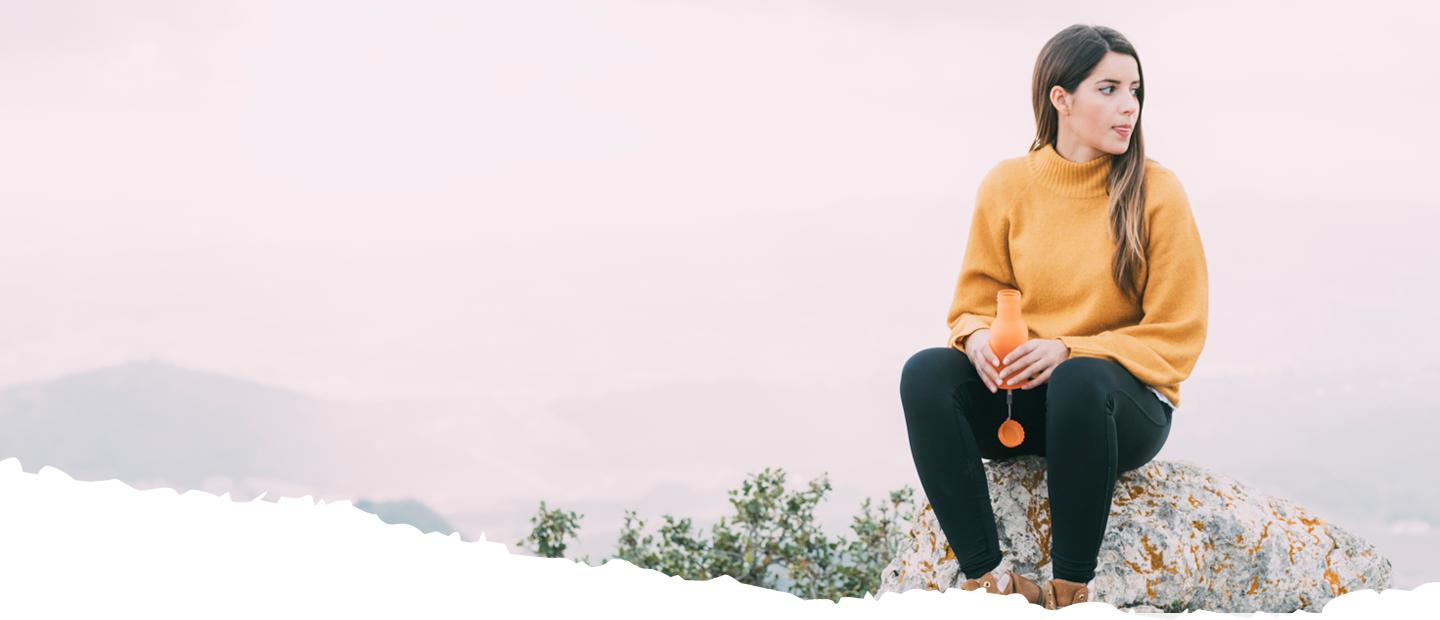
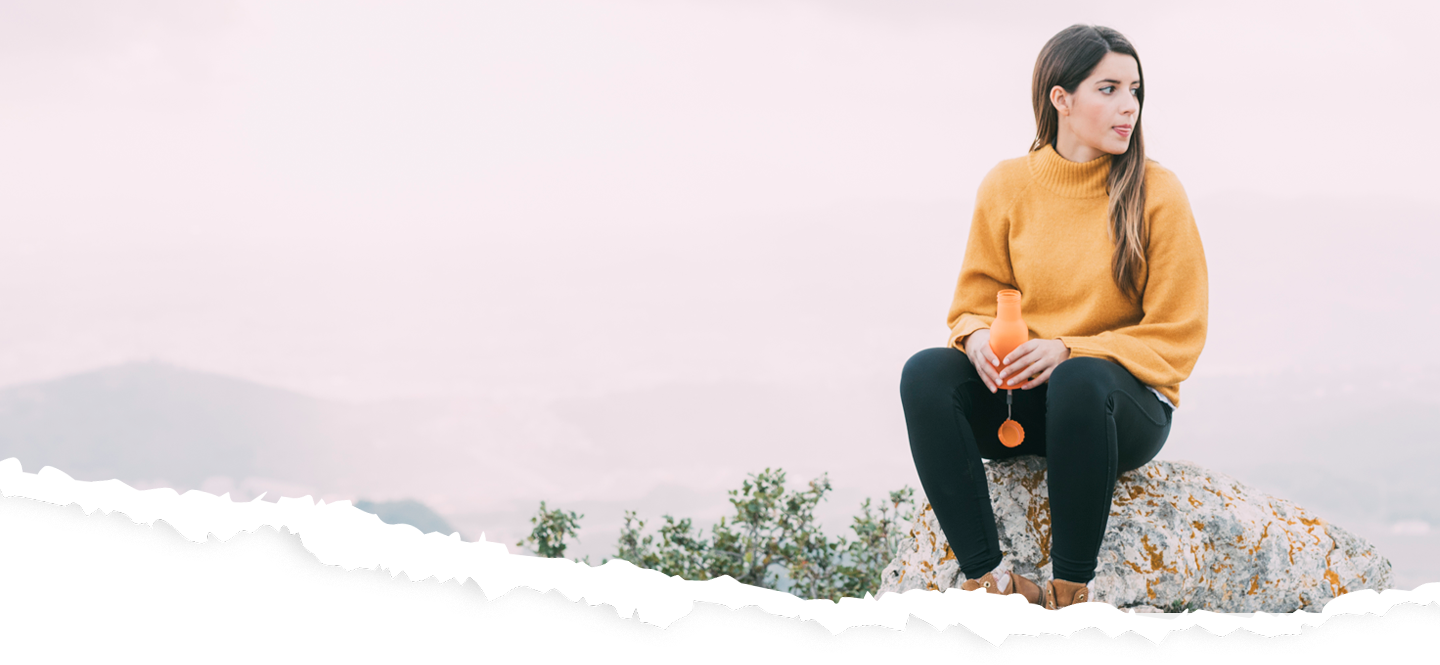
planted a girl

Changed region(s): [[0.0, 0.0306, 1.0, 1.0], [0.0312, 0.5516, 0.0625, 0.6129]]

diff --git a/Project-folder/index.html b/Project-folder/index.html
@@ -296,7 +296,7 @@
         </div>
     </footer>
     <!--footer end-->
-    <script src="/scripts.js"></script>
+    <script src="js/scripts.js"></script>
     <script src=""></script>
 </div>
 

diff --git a/Project-folder/css/style.css b/Project-folder/css/style.css
@@ -109,7 +109,7 @@ body {
     /*intro section styles start*/
 
 .intro-background {
-    height: 620px;
+    height: 665px;
     max-width: 1440px;
     padding: 300px;
     width: 100vw;
